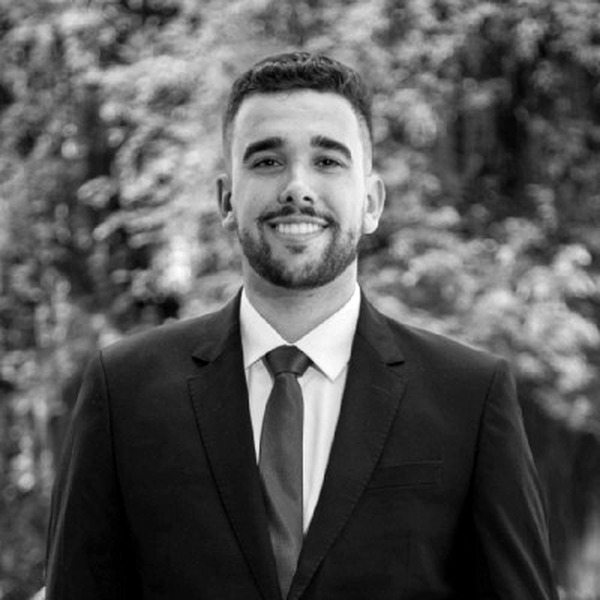
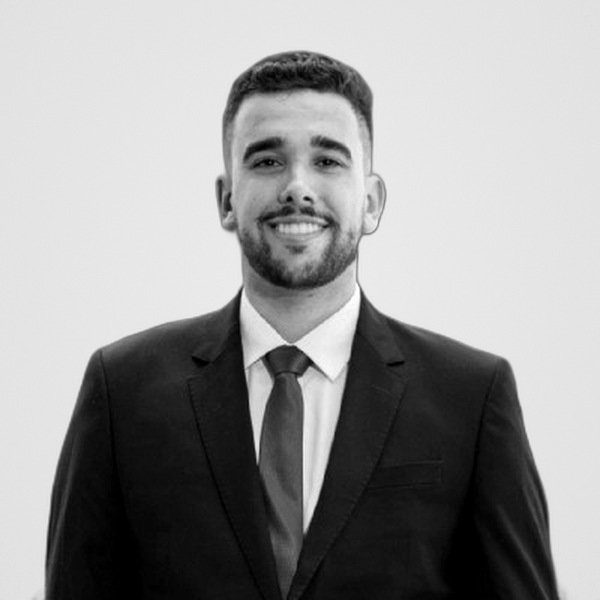
fix(team): remove Eduardo outdoor bg; strip residual 24h SLA copy
Composite Eduardo onto team studio plate; replace leftover "within 24
hours" CTA notes on three solution pages with non-SLA WhatsApp wording.

diff --git a/app/solutions/compliance/compliance-as-a-service/page.tsx b/app/solutions/compliance/compliance-as-a-service/page.tsx
@@ -277,7 +277,7 @@ export default function ComplianceAsAServicePage() {
           </h2>
           <a href={WHATSAPP_DISCUSS_URL} target="_blank" rel="noopener noreferrer" className="inline-flex h-12 items-center justify-center rounded-sm bg-primary px-10 text-base font-medium tracking-wide text-primary-foreground transition-colors hover:bg-primary/90">Continue this discussion →</a>
           <p className="body-sm cta-block__note" style={{ color: "var(--white-25)" }}>
-            We respond within 24 hours.
+            Reach us on WhatsApp. We assess operational fit before recommending a path.
           </p>
         </div>
       </section>

diff --git a/app/solutions/compliance/aml-kyc/page.tsx b/app/solutions/compliance/aml-kyc/page.tsx
@@ -208,7 +208,7 @@ export default function SolutionsAMLKYCPage() {
           </h2>
           <a href={WHATSAPP_DISCUSS_URL} target="_blank" rel="noopener noreferrer" className="inline-flex h-12 items-center justify-center rounded-sm bg-primary px-10 text-base font-medium tracking-wide text-primary-foreground transition-colors hover:bg-primary/90">Continue this discussion →</a>
           <p className="body-sm cta-block__note" style={{ color: "var(--white-25)" }}>
-            We respond within 24 hours.
+            Reach us on WhatsApp. We assess operational fit before recommending a path.
           </p>
         </div>
       </section>
